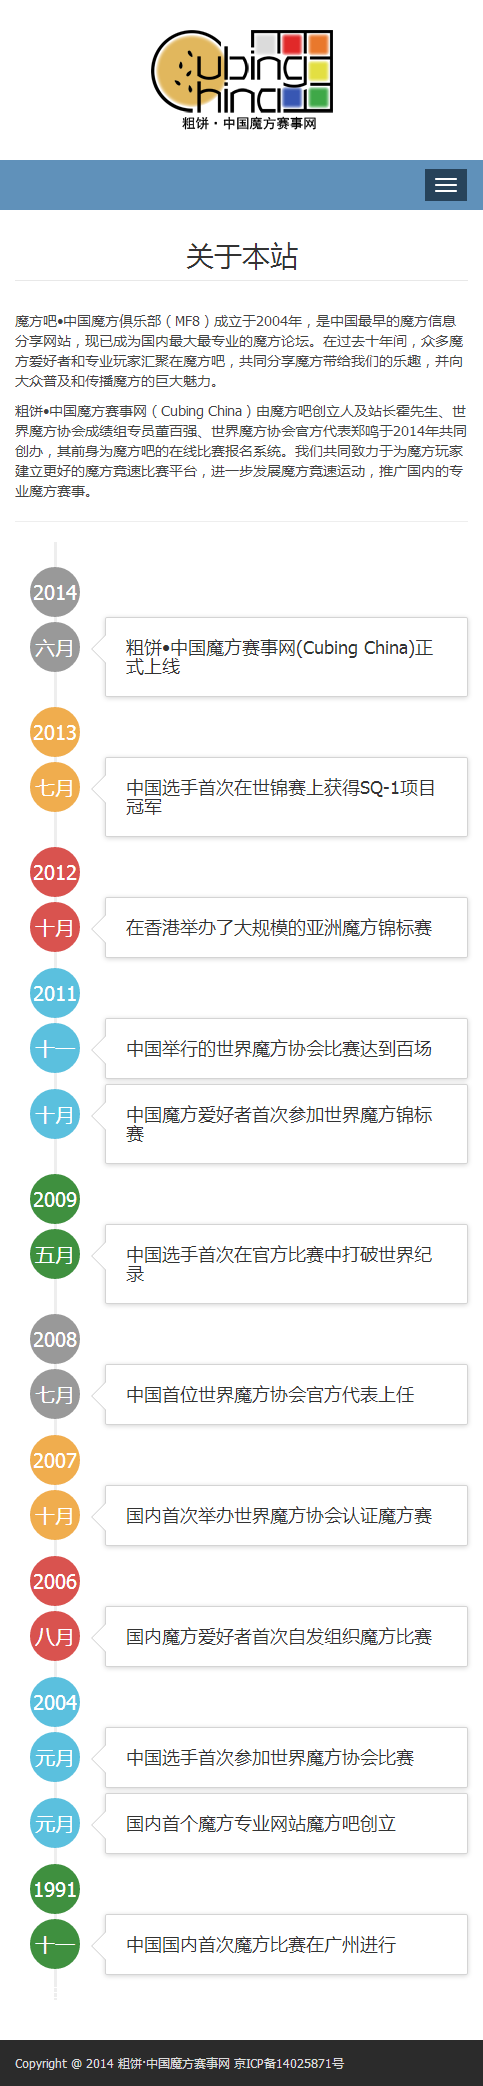
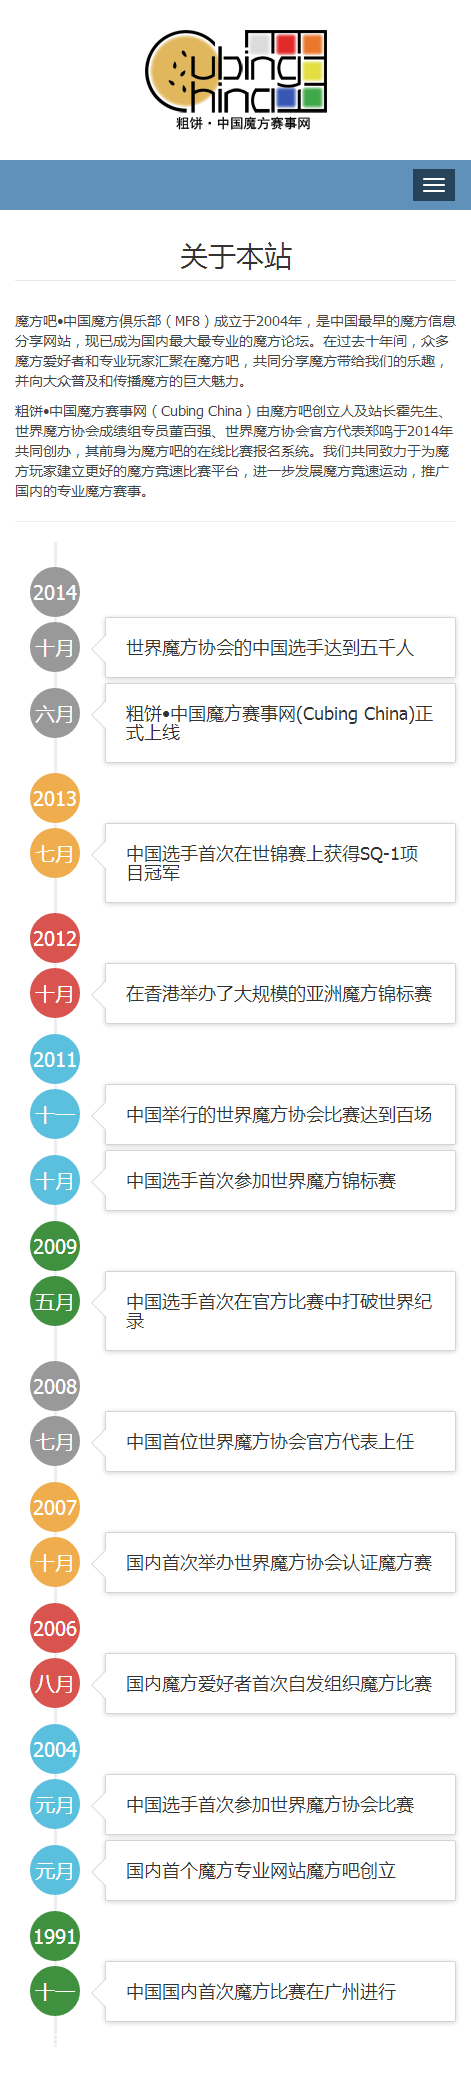
Update about page

diff --git a/protected/views/site/pages/about.php b/protected/views/site/pages/about.php
@@ -17,6 +17,14 @@
     <li>
       <div class="timeline-badge">2014</div>
     </li>
+    <li class="timeline-inverted">
+      <div class="timeline-badge">十月</div>
+      <div class="timeline-panel">
+        <div class="timeline-heading">
+          <h4 class="timeline-title">世界魔方协会的中国选手达到五千人</h4>
+        </div>
+      </div>
+    </li>
     <li>
       <div class="timeline-badge">六月</div>
       <div class="timeline-panel">
@@ -62,7 +70,7 @@
       <div class="timeline-badge info">十月</div>
       <div class="timeline-panel">
         <div class="timeline-heading">
-          <h4 class="timeline-title">中国魔方爱好者首次参加世界魔方锦标赛</h4>
+          <h4 class="timeline-title">中国选手首次参加世界魔方锦标赛</h4>
         </div>
       </div>
     </li>
@@ -150,6 +158,14 @@ EOT
   <ul class="timeline">
     <li>
       <div class="timeline-badge">2014</div>
+    </li>
+    <li class="timeline-inverted">
+      <div class="timeline-badge">Oct</div>
+      <div class="timeline-panel">
+        <div class="timeline-heading">
+          <h4 class="timeline-title">Chinese WCA competitors hit five thousand.</h4>
+        </div>
+      </div>
     </li>
     <li>
       <div class="timeline-badge">Jun</div>
